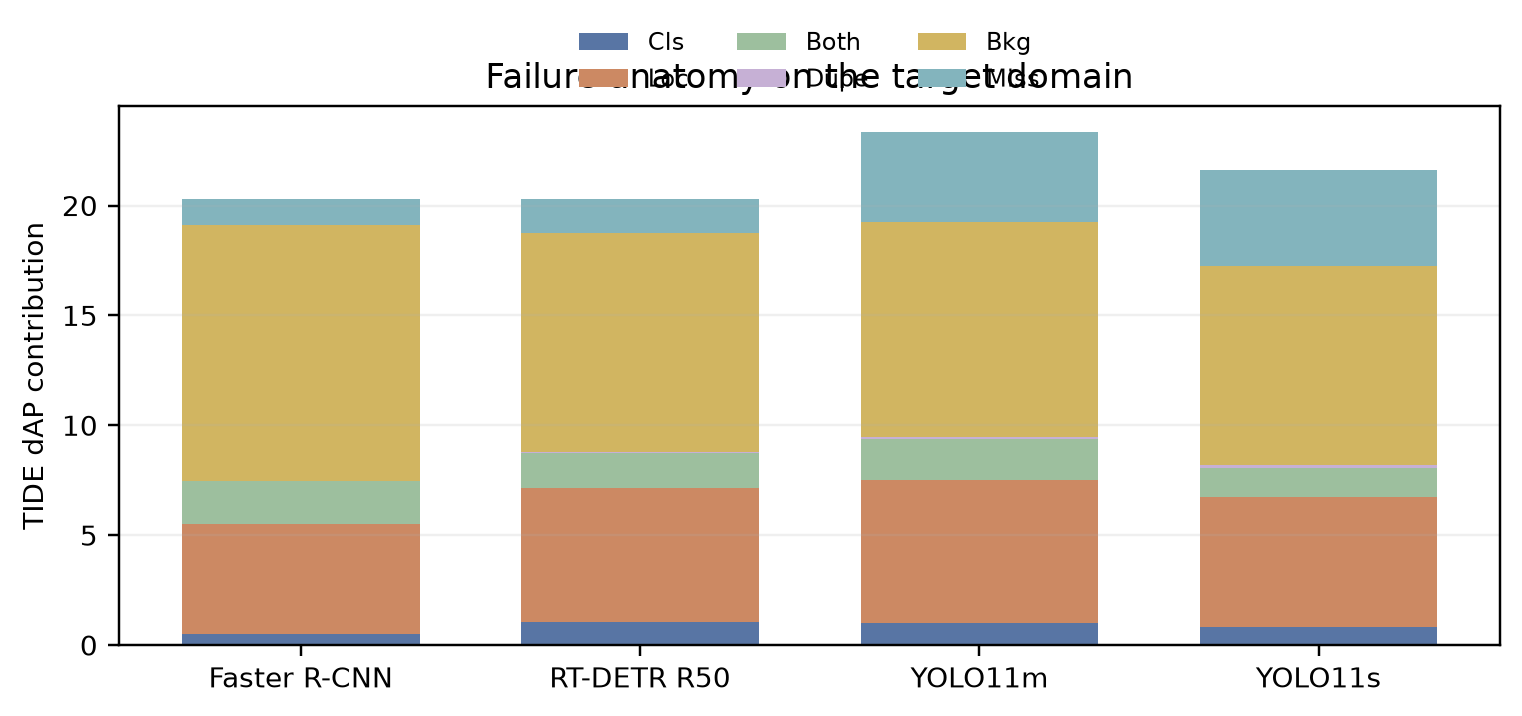
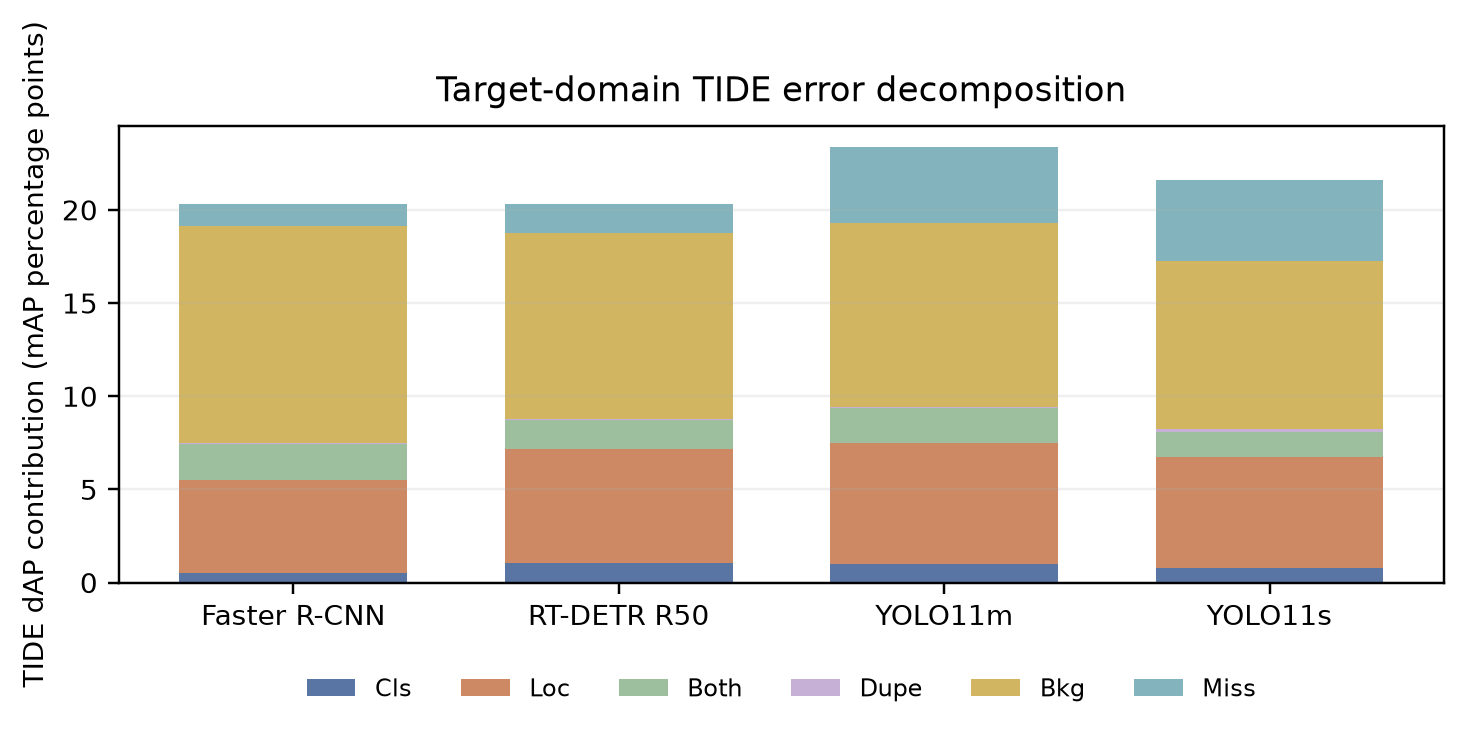
Polish report figures and protocol disclosure

diff --git a/scripts/analysis/build_submission.py b/scripts/analysis/build_submission.py
@@ -157,11 +157,11 @@ def save_tide(rows: list[dict]) -> Path:
         ax.bar(range(len(target)), values, bottom=bottom, label=key_label, color=color, width=.7)
         bottom = [a + b for a, b in zip(bottom, values)]
     ax.set_xticks(range(len(target)), [n.replace(" R50-FPN v2", "") for n in names], rotation=0)
-    ax.set_ylabel("TIDE dAP contribution")
-    ax.set_title("Failure anatomy on the target domain")
-    ax.legend(frameon=False, ncol=3, loc="upper center", bbox_to_anchor=(.5, 1.18))
+    ax.set_ylabel("TIDE dAP contribution (mAP percentage points)")
+    ax.set_title("Target-domain TIDE error decomposition", pad=8)
+    ax.legend(frameon=False, ncol=6, loc="upper center", bbox_to_anchor=(.5, -.16))
     ax.grid(axis="y", alpha=.2)
-    fig.tight_layout()
+    fig.subplots_adjust(bottom=.26, top=.88, left=.12, right=.98)
     path = FIG_DIR / "tide_target.png"
     fig.savefig(path, dpi=220, bbox_inches="tight")
     plt.close(fig)
@@ -243,7 +243,7 @@ def make_report(rows: list[dict], figures: list[Path]) -> None:
         ["RT-DETR R50", "query-based", "processor resize 640 x 640", "set prediction; no final NMS"],
     ]
     story += [tab(protocol, [1.35*inch, 1.08*inch, 1.62*inch, 2.25*inch]), Spacer(1, 6)]
-    story += [p("The KITTI reference image size is 1242 x 375. The Faster R-CNN transform therefore scales the image subject to the 800-pixel short-side and 1333-pixel long-side bounds, while the two YOLO configurations and RT-DETR receive 640 x 640 tensors. This is intentionally a checkpoint-native comparison, not a resolution-matched comparison. Score floor is 0.001 for all models; it preserves the low-score tail needed for the precision-recall curve. The baseline NMS settings are independently validated by the sweep: the baseline values land between their adjacent sweep values.", body)]
+    story += [p("KITTI uses a generated 1,500-image held-out split: the official labeled training IDs are hash-ranked with seed 2026, the selected IDs are sorted, and the first 1,000 are evaluated. This is a reproducible split generated by `scripts/cloud/prepare_kitti_split.py`, not a published KITTI benchmark split; it makes no sequence-independence claim. The reference image size is 1242 x 375. The Faster R-CNN transform therefore scales the image subject to the 800-pixel short-side and 1333-pixel long-side bounds, while the two YOLO configurations and RT-DETR receive 640 x 640 tensors. This is intentionally a checkpoint-native comparison, not a resolution-matched comparison. Score floor is 0.001 for all models; it preserves the low-score tail needed for the precision-recall curve. The baseline NMS settings are independently validated by the sweep: the baseline values land between their adjacent sweep values.", body)]
     story += [p("3. Baseline cross-domain evaluation", h1), Image(str(figures[0]), width=6.75*inch, height=3.13*inch), PageBreak(), p("3. Baseline cross-domain evaluation (continued)", h1), p(
         "Figure 1 shows a consistent transfer gap. The target-domain mAP decreases by 0.143 for YOLO11s, 0.153 for YOLO11m, 0.146 for Faster R-CNN, and 0.144 for RT-DETR. Faster R-CNN has the highest baseline KITTI mAP (0.315), narrowly ahead of RT-DETR (0.308) and YOLO11m (0.301). The result does not establish an architecture as universally better: it is bounded to this three-class, zero-shot, 1,000-image protocol.", body)]
     base_table = [["Model", "COCO mAP", "KITTI mAP", "AP50", "AP75", "AP S/M/L", "person/car/truck AP"]]
@@ -260,24 +260,24 @@ def make_report(rows: list[dict], figures: list[Path]) -> None:
         r = target[name]
         efficiency.append([name.replace(" R50-FPN v2", ""), f"{r['mAP']:.3f}", f"{r['AR_100']:.3f}", f"{r['median_latency_ms']:.1f}", f"{r['fps']:.1f}", f"{r['peak_cuda_memory_mib']:.0f}"])
     story += [tab(efficiency, [1.55*inch, .82*inch, .78*inch, .86*inch, .67*inch, .83*inch]), Spacer(1, 6), p(
-        "The comparison also clarifies what is and is not held constant. Architecture-specific preprocessing is preserved because forcing a two-stage detector into a square letterbox would introduce a confound. Evaluation annotations, taxonomy, score floor, candidate cap, metric cap, image manifest, batch size, and baseline GPU type are held fixed. The efficiency analysis is therefore a practical system comparison, not a claim that all architectures receive identical internal feature resolution.", body)]
+        "The comparison also clarifies what is and is not held constant. Architecture-specific preprocessing is preserved because forcing a two-stage detector into a square letterbox would introduce a confound. Evaluation annotations, taxonomy, score floor, candidate cap, metric cap, image manifest, batch size, and baseline GPU type are held fixed. The efficiency analysis is therefore a practical system comparison, not a claim that all architectures receive identical internal feature resolution. Input resolution alone does not explain the small-object ordering: Faster R-CNN receives the largest native input yet has the lowest target AP-small (0.161), while RT-DETR at 640 x 640 has the highest (0.217). The resolution difference remains a limitation, but it is not sufficient to explain this scale-conditioned ordering.", body)]
     story += [PageBreak(), p("5. Failure anatomy", h1), Image(str(figures[3]), width=6.72*inch, height=3.22*inch), p(
-        "TIDE separates error contributions after prediction. On KITTI, background and localization errors dominate the visible error anatomy, while duplicates are comparatively small at the baseline thresholds. This motivates the intervention instead of assuming that NMS is the root cause. TIDE duplicate dAP is observational: it measures errors that survived post-processing, not a direct causal estimate of NMS behavior.", body)]
+        "TIDE separates error contributions after prediction. The dAP axis is measured in mAP percentage points. On KITTI, background and localization errors dominate the visible error anatomy, while duplicates are comparatively small at the baseline thresholds. This motivates the intervention instead of assuming that NMS is the root cause. TIDE duplicate dAP is observational: it measures errors that survived post-processing, not a direct causal estimate of NMS behavior.", body)]
     strata = [["Target-domain ground truth stratum", "Count", "Definition"],
               ["small / medium / large", "790 / 2,416 / 1,281", "COCO area bands in original image coordinates"],
               ["same-class isolated / near / overlap", "2,579 / 1,102 / 806", "max same-class IoU < .10 / [.10, .30) / >= .30"],
               ["all-class isolated / near / overlap", "2,472 / 1,187 / 828", "same bands using any-class spatial neighbor"],
               ["person / car / truck", "646 / 3,685 / 156", "strict shared taxonomy only"],]
     story += [tab(strata, [2.20*inch, 1.50*inch, 3.05*inch]), Spacer(1, 6), p(
-        "The density strata distinguish same-class overlap from any-class neighborhood density. That distinction matters because class-aware NMS acts within a class, whereas cross-class proximity can still cause occlusion and feature ambiguity without being directly suppressed. The target set contains relatively few trucks, so truck conclusions should be interpreted as evidence from the declared fixed subset rather than a broad population estimate.", body), PageBreak(), p("5. NMS intervention", h1), Image(str(figures[2]), width=6.72*inch, height=2.96*inch), p(
+        "The density strata distinguish same-class overlap from any-class neighborhood density. That distinction matters because class-aware NMS acts within a class, whereas cross-class proximity can still cause occlusion and feature ambiguity without being directly suppressed. The target set contains relatively few trucks, so truck conclusions should be interpreted as evidence from the declared fixed subset rather than a broad population estimate.", body), PageBreak(), p("6. NMS intervention", h1), Image(str(figures[2]), width=6.72*inch, height=2.96*inch), p(
         "The causal test holds model weights, images, score floor, and saved-candidate cap fixed while sweeping only final detection NMS IoU. The largest observed point estimates occur at 0.75: 0.267 for YOLO11s and 0.317 for Faster R-CNN. However, the differences from 0.60 are only 0.0024 and 0.0007, respectively, and this study does not estimate confidence intervals. The correct interpretation is a flat intermediate-threshold plateau, not a resolved optimum. Both models fall at 0.90 while duplicate dAP rises sharply. For Faster R-CNN, RPN proposal NMS remained fixed, isolating final RoI suppression. Thus a looser threshold can recover some overlapping detections, but excessive permissiveness increases surviving duplicates and does not solve background or localization errors.", body)]
     sweep = [["Model", "NMS 0.30", "0.45", "0.60", "0.75", "0.90"]]
     for prefix, name in [("yolo11s-kitti-nms", "YOLO11s"), ("fasterrcnn-kitti-nms", "Faster R-CNN")]:
         group = sorted([r for r in rows if r["run"].startswith(prefix)], key=lambda x: x["nms_iou"])
         sweep.append([name] + [f"{r['mAP']:.3f}" for r in group])
     story += [tab(sweep, [1.35*inch] + [.84*inch]*5), Spacer(1, 6)]
-    story += [PageBreak(), p("6. Limitations and conclusion", h1), p(
-        "This is a zero-shot study, not a fine-tuning study. It uses a strict shared taxonomy, so non-target classes are excluded from the three-class evaluator. In particular, KITTI `Van`, `Cyclist`, `Person_sitting`, and `Tram` are not relabeled. This prevents a synthetic cyclist class, but means the analysis does not measure open-set recognition. COCO crowd annotations in the target classes were dropped rather than retained as COCO ignore regions; accordingly, results are strict three-class audit metrics and are not comparable to official full-category COCO AP. A sensitivity re-audit with retained ignore regions would require the original annotation files because discarded boxes are not present in the saved records.", body), p(
+    story += [PageBreak(), p("7. Limitations and conclusion", h1), p(
+        "This is a zero-shot study, not a fine-tuning study. It uses a strict shared taxonomy, so non-target classes are excluded from the three-class evaluator. Excluded KITTI labels are removed from ground truth rather than retained as ignore regions; a prediction overlapping a removed object can therefore count as a background false positive. This is a deliberate closed-set choice because mapping a `Van` to `car` or `truck` would itself be a heuristic, but it means the TIDE background component is an upper bound rather than a clean estimate of detector hallucination. `Cyclist` and `Person_sitting` are important candidates for a future ignore-region sensitivity analysis. COCO crowd annotations in target classes were also dropped rather than retained as COCO ignore regions; accordingly, results are strict three-class audit metrics and are not comparable to official full-category COCO AP. A sensitivity re-audit with retained ignore regions would require the original annotation files because discarded boxes are not present in the saved records.", body), p(
         "Native preprocessing differs by model family and is documented rather than artificially forced to a single resize recipe; therefore the accuracy-latency comparison is checkpoint-native, not resolution-matched. Unlike the official KITTI benchmark, this audit scores every mapped object regardless of truncation, occlusion, or box height, so small-object results are intentionally not comparable to KITTI leaderboard difficulty tiers. The truck class has only 156 target instances and COCO/KITTI truck definitions do not align perfectly. The deterministic 1,000-image subsets support reproducibility and matched comparisons, but are not official full-dataset leaderboard evaluations. Finally, the NMS sweep and baseline speed study use different GPU models, so the report keeps their interpretations separate.", body), p(
         "The main conclusion is that the cross-domain drop is not reducible to duplicate suppression. Across the measured threshold range, YOLO11s gains 0.77 mAP points and Faster R-CNN gains 0.64 points from NMS 0.30 to 0.75, versus COCO-to-KITTI drops of 14.29 and 14.55 points. This bounds the observed final-stage NMS effect to about five percent of the domain gap in this protocol. The stronger target-domain models still exhibit substantial background and localization contributions. A useful next experiment would fine-tune one configuration on the target training split and repeat the same TIDE and NMS protocol with bootstrap confidence intervals and explicit ignore-region sensitivity analysis.", body)]
     story += [p("Evidence and reproducibility", h1), p(
